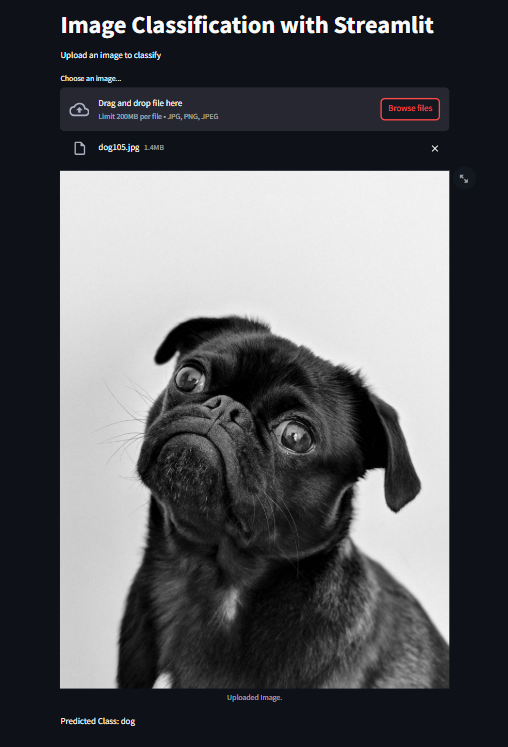
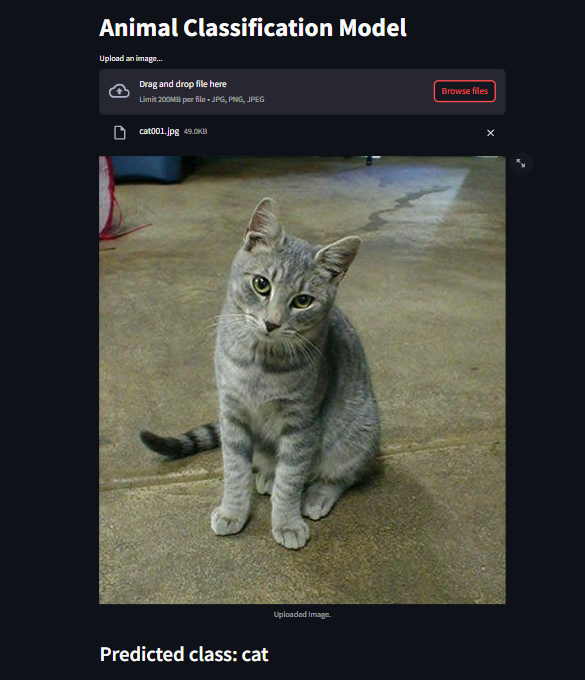
images updated

diff --git a/app.py b/app.py
@@ -1,41 +1,42 @@
 import streamlit as st
-from tensorflow.keras.preprocessing import image
+import tensorflow as tf
 import numpy as np
 from PIL import Image
-import tensorflow as tf
 
-# Load the model (make sure the model is saved in your working directory or specify the full path)
-model = tf.keras.models.load_model('./my_model.h5')
-    
-    
-# Class labels for your model (example, adjust to your model's labels)
-class_labels = {0: 'cat', 1: 'dog', 2: 'snake'}
+# Load your trained model
+model = tf.keras.models.load_model("./my_model.h5")
 
-# Function to preprocess the image and make predictions
-def predict_image(img):
-    img = img.resize((224, 224))  # Resize image to match model input size (224x224 is common)
-    img_array = np.array(img)  # Convert image to array
-    img_array = np.expand_dims(img_array, axis=0)  # Add batch dimension
-    img_array = img_array / 255.0  # Normalize if required by the model
+# Define the known classes (update this with your trained classes)
+known_classes = ["cat", "dog", "snakes"]  # Example classes
 
-    # Make the prediction
-    prediction = model.predict(img_array)
-    predicted_class = np.argmax(prediction, axis=1)
-    return predicted_class
+def preprocess_image(image):
+    image = image.resize((224, 224))  # Adjust according to your model input size
+    image = np.array(image) / 255.0  # Normalize
+    image = np.expand_dims(image, axis=0)  # Add batch dimension
+    return image
 
-# Streamlit app interface
-st.title('Image Classification with Streamlit')
+# Streamlit UI
+st.title("Animal Classification Model")
 
-st.write("Upload an image to classify")
-
-# File uploader to upload an image
-uploaded_file = st.file_uploader("Choose an image...", type=["jpg", "png", "jpeg"])
+uploaded_file = st.file_uploader("Upload an image...", type=["jpg", "png", "jpeg"])
 
 if uploaded_file is not None:
-    # Display the image
-    img = Image.open(uploaded_file)
-    st.image(img, caption="Uploaded Image.", use_column_width=True)
+    image = Image.open(uploaded_file)
+    st.image(image, caption="Uploaded Image.", use_column_width=True)
 
-    # Make prediction
-    predicted_class = predict_image(img)
-    st.write(f"Predicted Class: {class_labels[predicted_class[0]]}")
+    # Preprocess image
+    processed_image = preprocess_image(image)
+
+    # Predict the class
+    predictions = model.predict(processed_image)
+    predicted_class_index = np.argmax(predictions)
+    confidence = np.max(predictions)
+
+    # Get class label
+    predicted_label = known_classes[predicted_class_index] if predicted_class_index < len(known_classes) else "Unknown"
+
+    # If class is unknown, show a warning
+    if predicted_label not in known_classes or confidence < 0.6:  # Threshold for confidence
+        st.warning("Hey I'm not capable of recognizing this !")
+    else:
+        st.header(f"Predicted class: {predicted_label}")
